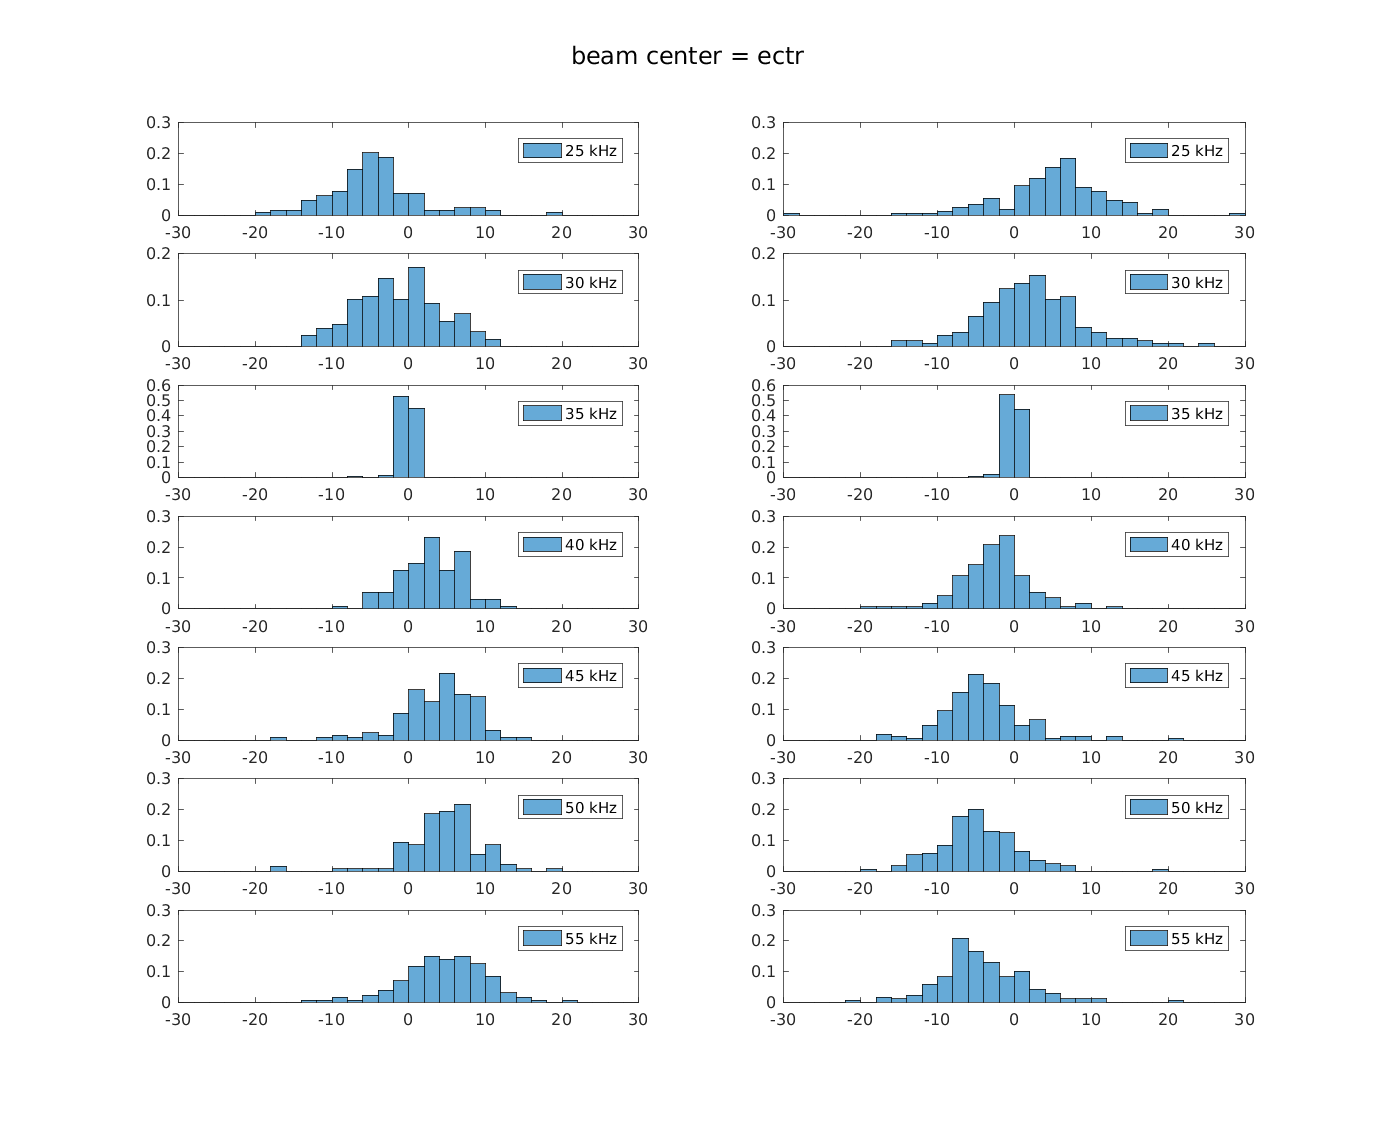
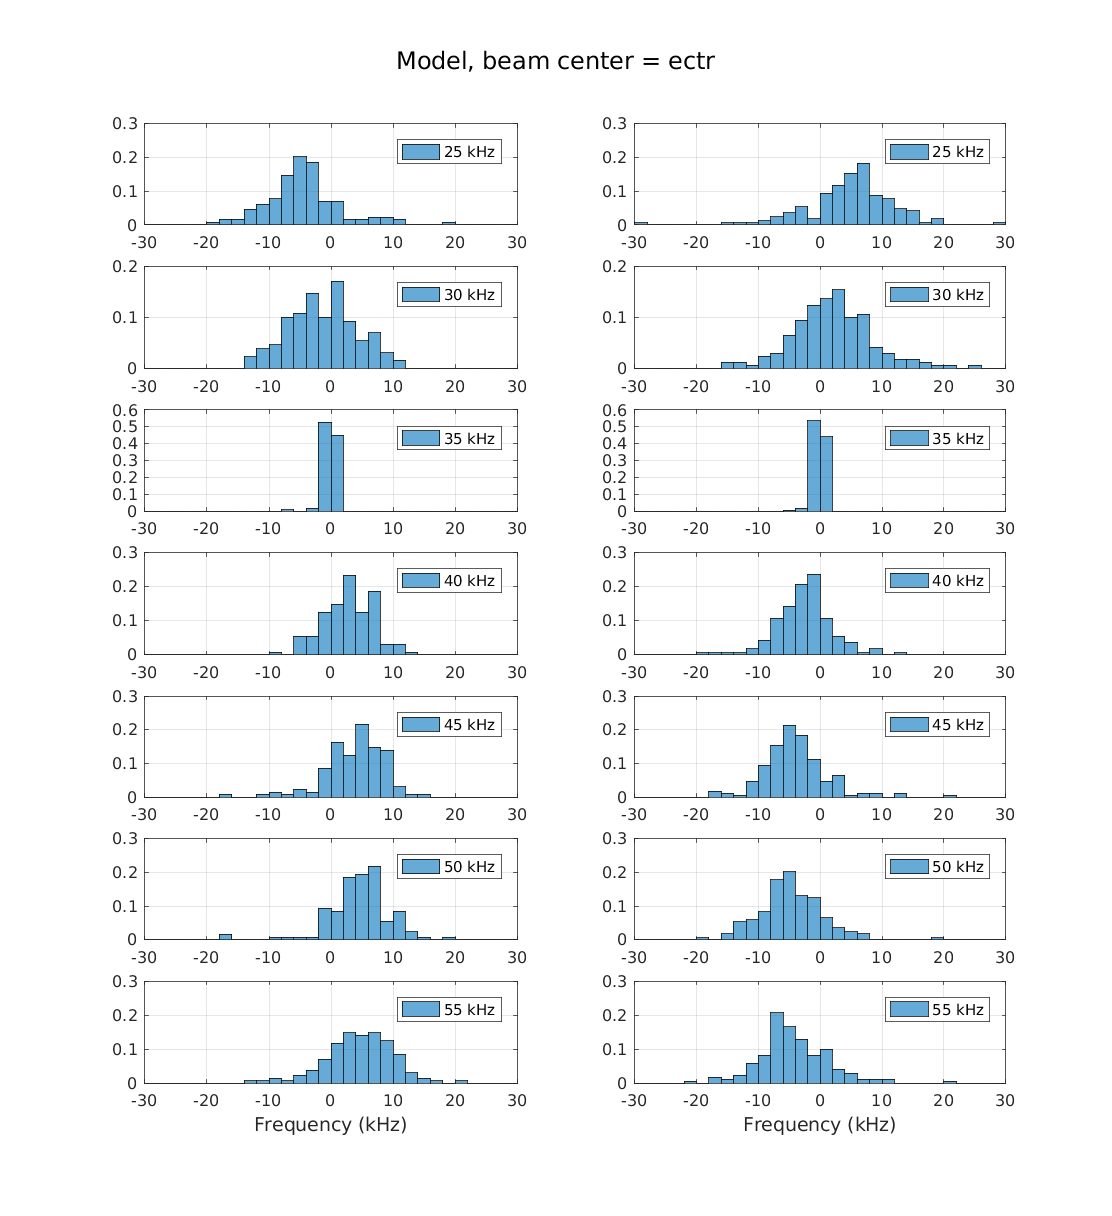
add title (data or model) and refine axes

diff --git a/multifreq_indiv_bpctr_cntr_20170924.m b/multifreq_indiv_bpctr_cntr_20170924.m
@@ -304,7 +304,7 @@ for iB=1:3
         bpctr_opt = 'ectr';
     end
 
-    fig_hist = figure('position',[100,50,1100,900]);
+    fig_hist = figure('position',[100,50,900,1200]);
     cnt = 0;
     for iF=2:num_freq-1  % 25:5:55 kHz, need to use sorted freq sequence
         cnt = cnt+1;
@@ -345,14 +345,22 @@ for iB=1:3
         vmax = ceil(vmax*10)/10;
         subplot(num_freq-2,2,(cnt-1)*2+1);
         ylim([0,vmax])
+        grid
         set(gca,'ytick',0:0.1:vmax)
         subplot(num_freq-2,2,(cnt-1)*2+2);
         ylim([0,vmax])
+        grid
         set(gca,'ytick',0:0.1:vmax)
+        if cnt==7
+            subplot(num_freq-2,2,(cnt-1)*2+1);
+            xlabel('Frequency (kHz)');
+            subplot(num_freq-2,2,(cnt-1)*2+2);
+            xlabel('Frequency (kHz)');
+        end
     end
-    suptitle(sprintf('beam center = %s',bpctr_opt));
+    suptitle(sprintf('Data, beam center = %s',bpctr_opt));
     saveas(fig_hist,fullfile(save_path,sprintf('%s_azdistr_%s.fig',save_fname,bpctr_opt)),'fig');
-    saveSameSize_res(fig_hist,120,...
+    saveSameSize_res(fig_hist,150,...
                      'file',fullfile(save_path,sprintf('%s_azdistr_%s.png',save_fname,bpctr_opt)),...
                      'format','png','renderer','painters');
     epswrite(fullfile(save_path,sprintf('%s_azdistr_%s.eps',save_fname,bpctr_opt)));
@@ -369,7 +377,7 @@ plot([bpctr_az.mean(:).max_left],'o-')
 hold on
 plot([bpctr_az.mean(:).max_right],'o-')
 legend('Left','Right')
-title('beam center = max')
+title('Data, beam center = max')
 grid
 set(gca,'xtick',1:9,'xticklabel',[freq_wanted'/1e3])
 xlabel('Frequency (kHz)')
@@ -380,7 +388,7 @@ plot([bpctr_az.mean(:).top_left],'o-')
 hold on
 plot([bpctr_az.mean(:).top_right],'o-')
 legend('Left','Right')
-title('beam center = top')
+title('Data, beam center = top')
 grid
 set(gca,'xtick',1:9,'xticklabel',[freq_wanted'/1e3])
 xlabel('Frequency (kHz)')
@@ -391,11 +399,12 @@ plot([bpctr_az.mean(:).ectr_left],'o-')
 hold on
 plot([bpctr_az.mean(:).ectr_right],'o-')
 legend('Left','Right')
-title('beam center = ectr')
+title('Data, beam center = ectr')
 grid
 set(gca,'xtick',1:9,'xticklabel',[freq_wanted'/1e3])
 xlabel('Frequency (kHz)')
 ylabel('Azimuth angle (deg)');
+
 
 saveas(fig_bpctr_stat,fullfile(save_path,sprintf('%s_azmean.fig',save_fname)),'fig');
 saveSameSize_res(fig_bpctr_stat,150,'file',...

diff --git a/model_multifreq_indiv_bpctr_cntr_20170924.m b/model_multifreq_indiv_bpctr_cntr_20170924.m
@@ -285,7 +285,7 @@ for iB=1:3
         bpctr_opt = 'ectr';
     end
 
-    fig_hist = figure('position',[100,50,1100,900]);
+    fig_hist = figure('position',[100,50,900,1200]);
     cnt = 0;
     for iF=freqI(2:num_freq-1)  % 25:5:55 kHz, need to use sorted freq sequence
         cnt = cnt+1;
@@ -326,12 +326,20 @@ for iB=1:3
         vmax = ceil(vmax*10)/10;
         subplot(num_freq-2,2,(cnt-1)*2+1);
         ylim([0,vmax])
+        grid
         set(gca,'ytick',0:0.1:vmax)
         subplot(num_freq-2,2,(cnt-1)*2+2);
         ylim([0,vmax])
+        grid
         set(gca,'ytick',0:0.1:vmax)
+        if cnt==7
+            subplot(num_freq-2,2,(cnt-1)*2+1);
+            xlabel('Frequency (kHz)');
+            subplot(num_freq-2,2,(cnt-1)*2+2);
+            xlabel('Frequency (kHz)');
+        end
     end
-    suptitle(sprintf('beam center = %s',bpctr_opt));
+    suptitle(sprintf('Model, beam center = %s',bpctr_opt));
     saveas(fig_hist,fullfile(save_path,sprintf('%s_azdistr_%s.fig',save_fname,bpctr_opt)),'fig');
     saveSameSize_res(fig_hist,120,...
                      'file',fullfile(save_path,sprintf('%s_azdistr_%s.png',save_fname,bpctr_opt)),...
@@ -349,7 +357,7 @@ plot([bpctr_az.mean(freqI).max_left],'o-')
 hold on
 plot([bpctr_az.mean(freqI).max_right],'o-')
 legend('Left','Right')
-title('beam center = max')
+title('Model, beam center = max')
 grid
 set(gca,'xtick',1:9,'xticklabel',[D.freq.all(freqI)'/1e3])
 xlabel('Frequency (kHz)')
@@ -360,7 +368,7 @@ plot([bpctr_az.mean(freqI).top_left],'o-')
 hold on
 plot([bpctr_az.mean(freqI).top_right],'o-')
 legend('Left','Right')
-title('beam center = top')
+title('Model, beam center = top')
 grid
 set(gca,'xtick',1:9,'xticklabel',[D.freq.all(freqI)'/1e3])
 xlabel('Frequency (kHz)')
@@ -371,7 +379,7 @@ plot([bpctr_az.mean(freqI).ectr_left],'o-')
 hold on
 plot([bpctr_az.mean(freqI).ectr_right],'o-')
 legend('Left','Right')
-title('beam center = ectr')
+title('Model, beam center = ectr')
 grid
 set(gca,'xtick',1:9,'xticklabel',[D.freq.all(freqI)'/1e3])
 xlabel('Frequency (kHz)')

diff --git a/rousettus_bp_analysis_note3.md b/rousettus_bp_analysis_note3.md
@@ -130,7 +130,7 @@ Move most BEM calculation results off from the gal-e server. Only keep the ones 
 	<img src=./img/model_multifreq_indiv_bpctr_cntr_20170924_std1.0_azdistr_top.png width="400">	<img src=./img/multifreq_indiv_bpctr_cntr_20170924_batall_azdistr_top.png width="400">
 
 
-
+ 
 
 
 * **NOTE** The `multifreq_composite_click_***_20170308` series of code starts by `multifreq_composite_click_20170308` and then calculate other related attributes, including `..._avg_bp` (beampattern for average click), `..._cntr` (multi-freq contour for average click), and `..._fit_elps` (fitting ellipse to -3dB contour at 35 kHz).
